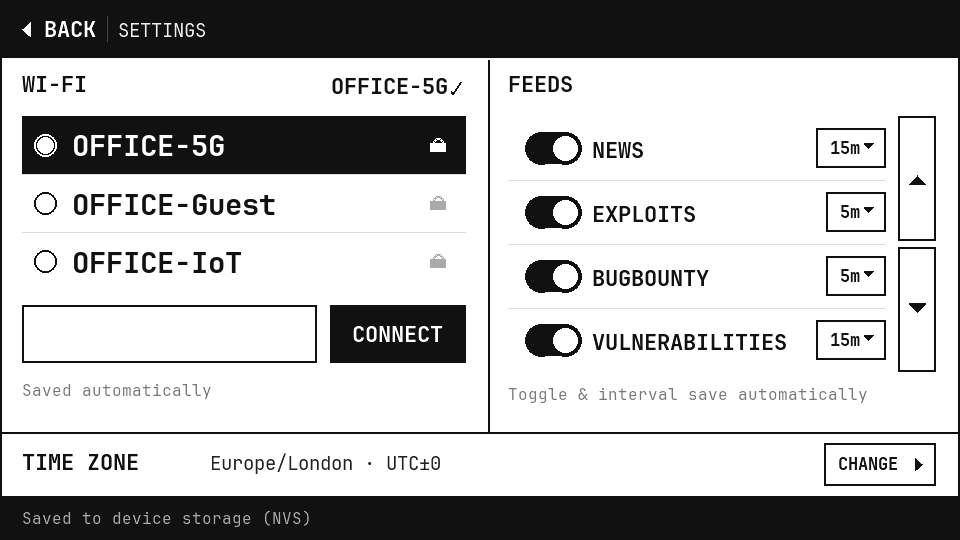
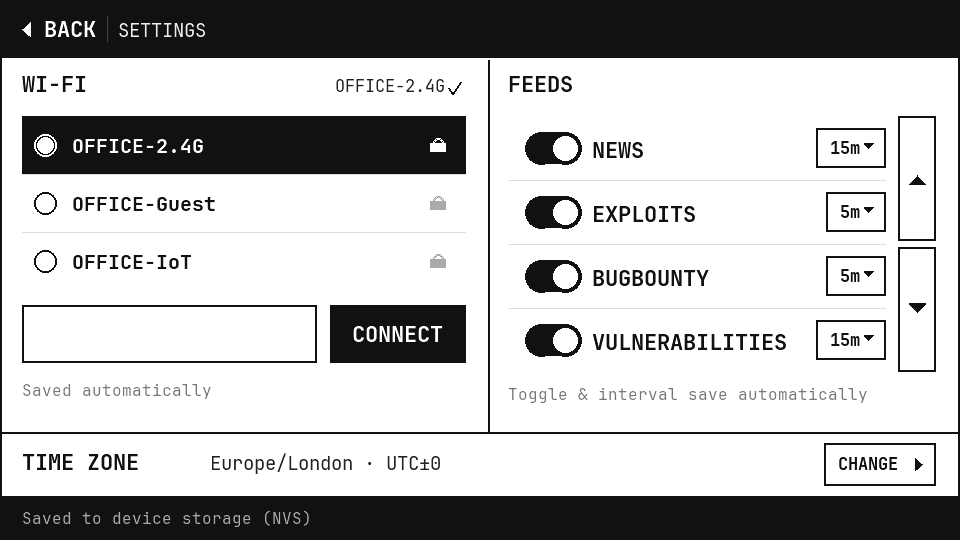
fix(ui): demo Wi-Fi SSID OFFICE-5G -> OFFICE-2.4G (device is 2.4 GHz only)
The design mock's 'OFFICE-5G' placeholder leaked into the dev-preview
screen jumps and the README gallery. An ESP32-S3 is 2.4 GHz-only, so a
'5G' network name is misleading. Rename the demo SSID to a realistic
2.4 GHz name and regenerate the affected gallery screenshots
(connecting / keyboard whole-frame; settings Wi-Fi region only, so the
committed feeds/timezone are preserved).

diff --git a/src/ui.cpp b/src/ui.cpp
@@ -494,11 +494,11 @@ void Ui::serviceJump() {
             break;
         }
         case '3': showSettings(); break;
-        case '4': showKeyboard("OFFICE-5G"); break;
+        case '4': showKeyboard("OFFICE-2.4G"); break;
         case '5': showInterval(activeId()); break;
         case '6': showTimezone(); break;
         case '7': showBoot(3, "display \xC2\xB7 storage \xC2\xB7 radio"); break;
-        case '8': showConnecting("OFFICE-5G", 2); break;
+        case '8': showConnecting("OFFICE-2.4G", 2); break;
         case '9': showSetup("VulnCast-Setup", "vulncast-setup", "192.168.4.1", 0); break;
         case 'K': showNeedKey("192.168.1.42"); break;  // preview the "add your API key" screen
     }